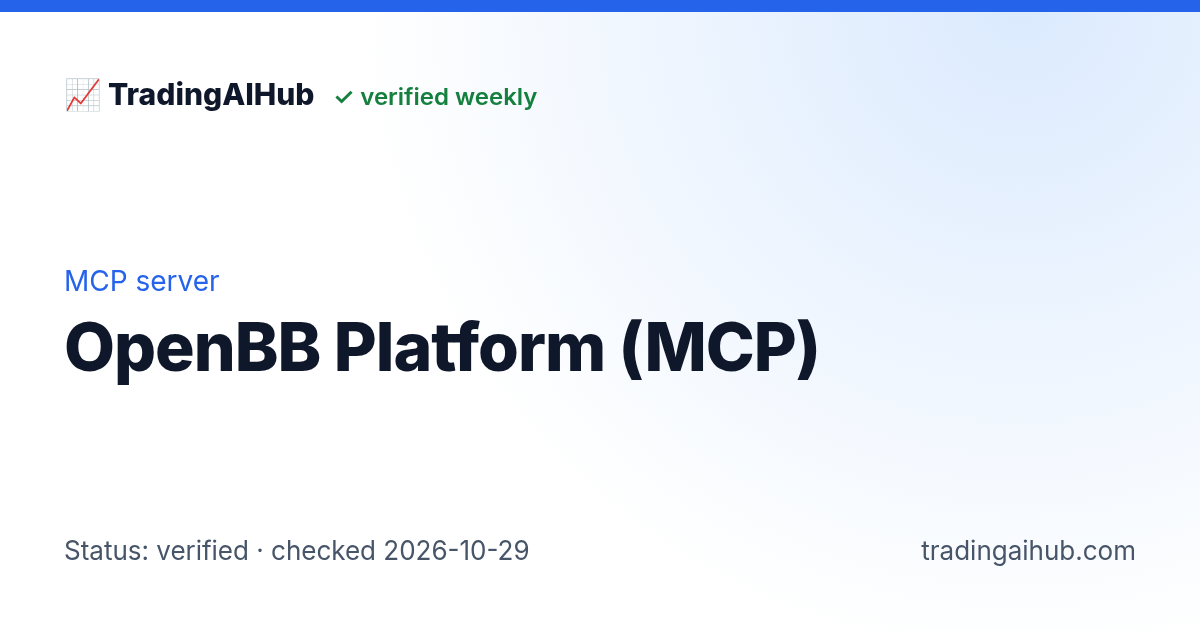
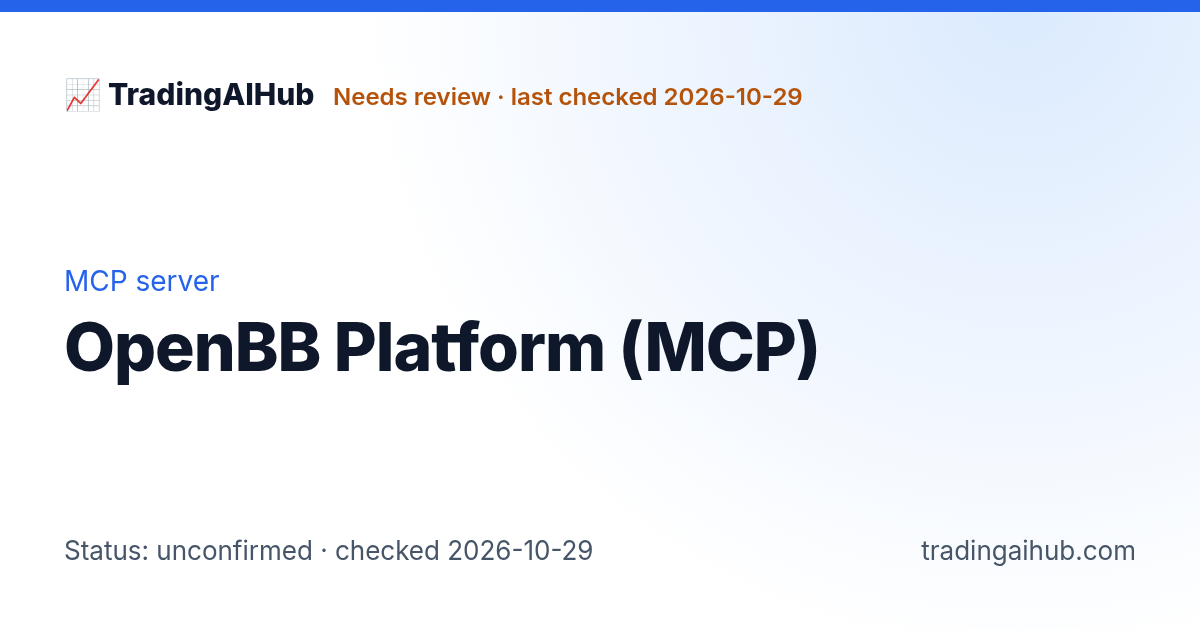
data: re-verify openbb + paypal-mcp under review #18 rules (openbb -> Needs review: repo redirects cross-org to openbq-org; paypal-mcp -> verified via /mcp); verified 82

Changed region(s): [[0.2775, 0.1206, 0.6783, 0.181], [0.1233, 0.8444, 0.4933, 0.9048]]

diff --git a/data/verification-report.md b/data/verification-report.md
@@ -1,4 +1,4 @@
-# Verification report — 2026-10-29 17:00 UTC
+# Verification report — 2026-10-29 17:26 UTC
 
 Total entries: 104
 
@@ -6,8 +6,7 @@ Total entries: 104
 - stale: 13
 - aging: 4
 - archived: 3
-- warning: 1
-- unconfirmed: 1
+- unconfirmed: 2
 
 Entries with a published npm/PyPI package: 28
 
@@ -71,7 +70,7 @@ Entries with a published npm/PyPI package: 28
 | actual-budget-mcp | aging | 2 | 2026-03-23 | unknown |  | npm name 'actual-budget-mcp' exists on the registry but does not link to this repo (not counted); No commits for 220 days |
 | optionsahoy-mcp | verified | 6 | 2026-10-28 | MIT | optionsahoy-mcp@1.11.0 |  |
 | sec-edgar-mcp | verified | 380 | 2026-10-03 | AGPL-3.0 | sec-edgar-mcp@1.1.0 |  |
-| openbb | verified | 74856 | 2026-10-24 | Apache-2.0 |  |  |
+| openbb | unconfirmed | 74866 | 2026-10-24 | Apache-2.0 |  | Repository redirects to another owner (https://github.com/openbq-org/OpenBB); stored link not updated |
 | equibles | verified | 7 | 2026-10-19 | MIT |  |  |
 | alphasmo | verified | 2 | 2026-08-12 | MIT | alphasmo@0.2.1 |  |
 | edgrapi-skills | verified | 1 | 2026-10-16 | MIT-0 |  |  |
@@ -93,7 +92,7 @@ Entries with a published npm/PyPI package: 28
 | fmp-mcp | verified |  |  | Proprietary / ToS |  |  |
 | eodhd-mcp | verified | 23 | 2026-10-22 | MIT |  |  |
 | finnhub-mcp | verified |  |  | Proprietary / ToS |  |  |
-| paypal-mcp | warning | 197 | 2026-09-01 | Apache-2.0 |  | A homepage/docs/endpoint link failed: MCP endpoint 404: not found (dead link) |
+| paypal-mcp | verified | 197 | 2026-09-01 | Apache-2.0 |  |  |
 | square-mcp | verified | 109 | 2026-10-14 | Apache-2.0 |  | npm name 'square-mcp-server' exists on the registry but does not link to this repo (not counted) |
 | adyen-mcp | verified | 27 | 2026-10-29 | MIT |  |  |
 | razorpay-mcp | verified | 231 | 2026-10-28 | MIT |  |  |
